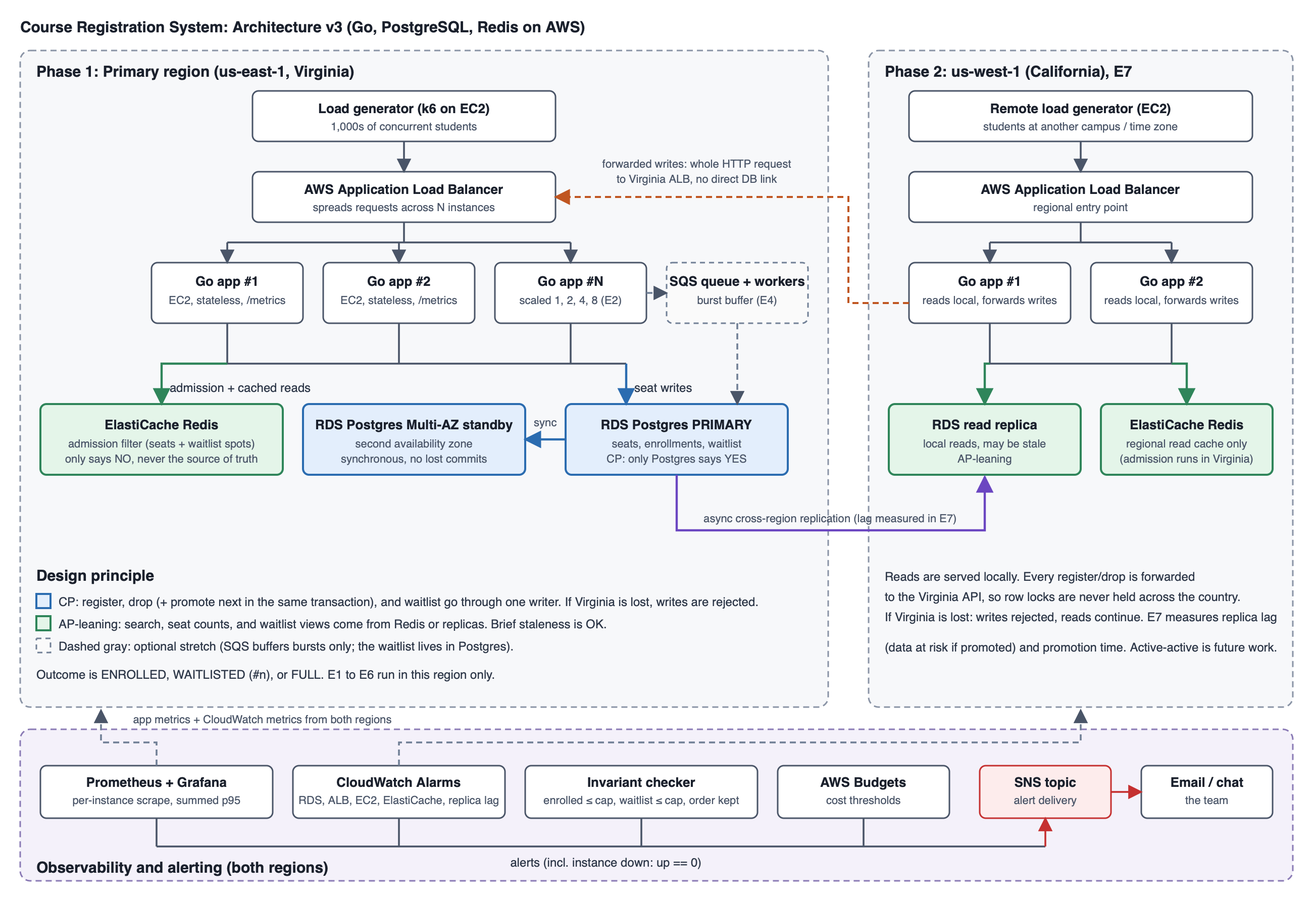
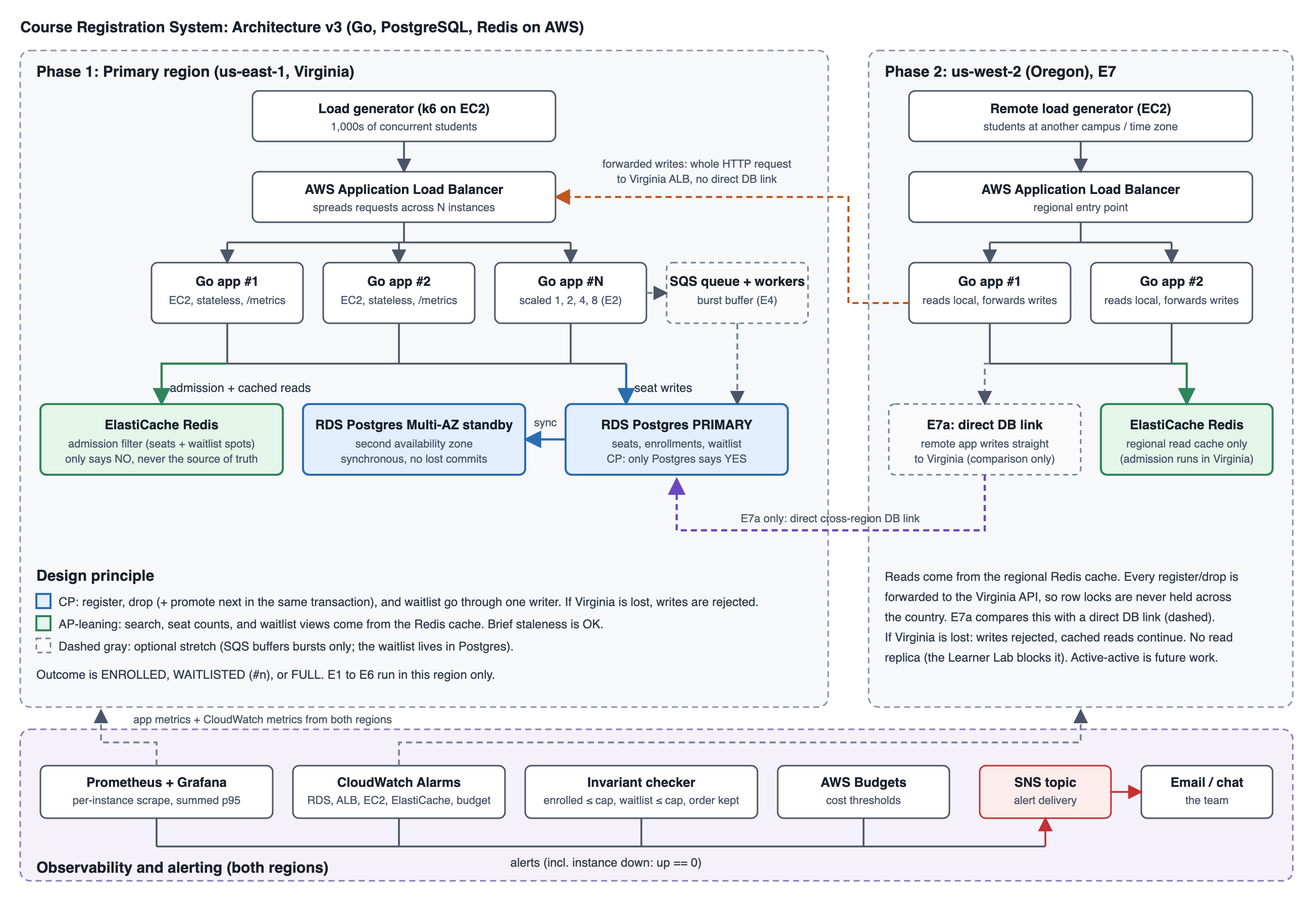
Update docs for AWS Learner Lab limits

diff --git a/docs/proposal.md b/docs/proposal.md
@@ -15,14 +15,14 @@ date: "November 2026"
 | Member | What they bring |
 |---|---|
 | Suyash Muley | **[FILL IN: e.g., Go backend/API development, Postgres schema, prior HW work on the Go DynamoDB store]** |
-| Santosh Sunkara | **[FILL IN: e.g., AWS deployment/infrastructure, load testing]** |
+| Santosh Sunkara | Infrastructure as code with Terraform and Ansible from prior industry work; containers with Docker and Kubernetes; hands-on with core AWS services. Leads AWS deployment and load testing. |
 | Sameep Sawant | **[FILL IN: e.g., observability, data analysis, Redis/caching]** |
 
-**Results our experiments will evaluate.** (1) *Correctness*: zero over-enrollment and zero lost or duplicated enrollments under contention. (2) *Performance*: throughput (registrations/s), median and p95/p99 latency, error rate. (3) *Scalability*: how throughput changes as we add application instances, and where the database becomes the bottleneck. (4) *Resilience*: behavior during traffic spikes and when an application server or Redis is killed. (5) *Multi-region behavior*: many universities have campuses in different locations and time zones, so we evaluate latency, consistency, and what a primary-region failure would cost (replica lag and promotion time) when users connect from a remote region. (6) *Waitlist correctness*: waitlist order is preserved and a freed seat always goes to the first waitlisted student, even during a burst of drops.
+**Results our experiments will evaluate.** (1) *Correctness*: zero over-enrollment and zero lost or duplicated enrollments under contention. (2) *Performance*: throughput (registrations/s), median and p95/p99 latency, error rate. (3) *Scalability*: how throughput changes as we add application instances, and where the database becomes the bottleneck. (4) *Resilience*: behavior during traffic spikes and when an application server or Redis is killed. (5) *Multi-region behavior*: many universities have campuses in different locations and time zones, so we evaluate the latency and consistency cost (cross-region write latency, row-lock hold time, stale cached reads) when users connect from a remote region, and what happens to them when the primary region fails. (6) *Waitlist correctness*: waitlist order is preserved and a freed seat always goes to the first waitlisted student, even during a burst of drops.
 
 **Role of AI.** AI is a development assistant (code generation, test scaffolding, log/metric analysis, and documentation drafts). The *system itself* has no AI component in its request path. This keeps behavior deterministic and cost predictable. See Sections 2 and 3.
 
-**Observability plan.** Every Go instance exports metrics (request count, latency histograms, error counts, seat-conflict/retry counts, DB connection-pool usage) to Prometheus (which scrapes each instance directly through EC2 service discovery, not through the load balancer) and displays them in Grafana. AWS CloudWatch supplies infrastructure metrics for RDS (CPU, connections, IOPS), ElastiCache, the load balancer, and EC2. Logs are structured JSON with a request ID that follows each request through the load balancer, app, and database. Alerting is built in: CloudWatch Alarms and Grafana alerts on latency, error rate, replica lag, and an over-enrollment invariant check, delivered through Amazon SNS. Load-test results are stored as CSV so every graph in the final report can be regenerated.
+**Observability plan.** Every Go instance exports metrics (request count, latency histograms, error counts, seat-conflict/retry counts, DB connection-pool usage) to Prometheus (which scrapes each instance directly through EC2 service discovery, not through the load balancer) and displays them in Grafana. AWS CloudWatch supplies infrastructure metrics for RDS (CPU, connections, IOPS), ElastiCache, the load balancer, and EC2. Logs are structured JSON with a request ID that follows each request through the load balancer, app, and database. Alerting is built in: CloudWatch Alarms and Grafana alerts on latency, error rate, and an over-enrollment invariant check, delivered through Amazon SNS. Load-test results are stored as CSV so every graph in the final report can be regenerated.
 
 # 2. Project Plan and Recent Progress
 
@@ -33,8 +33,9 @@ date: "November 2026"
 - **Data model:** a PostgreSQL schema for sections, students, enrollments, and a capped waitlist.
 - **Service:** a Go HTTP service with register, drop, and seat-count endpoints, a configurable seat strategy, and unit tests for the handlers.
 - **Strategies and first result:** the naive baseline and the atomic single-statement strategy, tested against a real PostgreSQL. With 200 concurrent registrations for 10 seats, naive enrolled 200 and atomic enrolled exactly 10 (Section 6).
+- **AWS Learner Lab check:** verified the AWS Learner Lab limits by test-launching RDS: PostgreSQL with Multi-AZ works, but read replicas are blocked and only us-east-1 and us-west-2 are available.
 
-**[Santosh and Sameep: add anything you have completed, e.g., Docker Compose, the k6 load script, dashboards, or AWS setup.]** Our earlier coursework (the key-value/DynamoDB store from the homework) gives us a base for storing and updating seat counts.
+**[Sameep: add anything you have completed, e.g., dashboards.]** Our earlier coursework (the key-value/DynamoDB store from the homework) gives us a base for storing and updating seat counts.
 
 **Timeline and task breakdown** (about 3 weeks of remaining work; adjust to the real deadline):
 
@@ -42,7 +43,7 @@ date: "November 2026"
 |---|---|---|
 | Nov 23–29 | Single-instance Go service (register, drop, waitlist, seat-count APIs); Postgres schema; local Docker Compose; metrics endpoint; AWS account/budget alarm | Suyash (API/DB), Sameep (metrics), Santosh (AWS setup) |
 | Nov 30–Dec 6 | Deploy to AWS (EC2 instances behind an ALB, RDS Postgres, ElastiCache Redis); concurrency-control variants; Prometheus + Grafana; load-test harness | Santosh (AWS/LB/harness), Suyash (concurrency), Sameep (dashboards) |
-| Dec 7–13 | Run E1–E6 (Phase 1, single region); Redis variants; failure injection; analysis. **Phase 2, only if E1–E6 are done:** second region in us-west-1 (read replica + remote clients, E7) | All; Santosh runs tests and the second region, Sameep analyzes |
+| Dec 7–13 | Run E1–E6 (Phase 1, single region); Redis variants; failure injection; analysis. **Phase 2, only if E1–E6 are done:** second region in us-west-2 (app instances, regional Redis cache, and remote clients, E7) | All; Santosh runs tests and the second region, Sameep analyzes |
 | Dec 14–end | Final report, graphs, demo, cleanup, README for classmates | All |
 
 **Who does what.** Suyash owns the application service and correctness (concurrency control, tests). Santosh owns infrastructure and load generation (load balancer, deployment, workload scripts, failure injection). Sameep owns observability and analysis (metrics, dashboards, plots, cache layer). Each person reviews at least one other person's pull request every week.
@@ -63,13 +64,13 @@ date: "November 2026"
 4. Compare at least two seat-allocation strategies and a caching/queueing option with Redis.
 5. Provide dashboards and structured logs that make failures diagnosable.
 6. Support a capped waitlist (enrolled, waitlisted at position n, or full), with the first waitlisted student promoted in the same transaction as a drop.
-7. **Phase 2:** once the single-region system and E1–E6 are done, evaluate a second region (us-west-1, a West Coast campus) to measure the latency and consistency cost of serving campuses in different time zones.
+7. **Phase 2:** once the single-region system and E1–E6 are done, evaluate a second region (us-west-2, a West Coast campus) to measure the latency and consistency cost of serving campuses in different time zones.
 
-**Design principle: CP for writes, AP-leaning for reads.** We choose consistency per operation, not one setting for the whole system. *Registering or dropping a seat is CP*: a single writer (PostgreSQL, Multi-AZ with synchronous replication) guarantees zero over-enrollment, and during a partition or a primary-region outage the system rejects writes instead of risking an oversold section. We stay highly available against likely failures (an app instance, a Redis node, or an availability zone) because the synchronous standby takes over without losing committed writes. The cross-region replica is asynchronous, so promoting it after a region loss could drop the most recent enrollments or double-assign a seat. We therefore do not auto-promote it, and E7 measures what that failover would cost (replica lag at risk and promotion time). Redis may only say *no* (reject early once a section and its waitlist are full); only Postgres can say *yes*. *Course search, seat-count display, and waitlist views are AP-leaning*: they are served from Redis and read replicas, so they stay fast and available during failures at the cost of brief staleness. We do not claim to have both properties during a partition: for seat writes we explicitly choose consistency.
+**Design principle: CP for writes, AP-leaning for reads.** We choose consistency per operation, not one setting for the whole system. *Registering or dropping a seat is CP*: a single writer (PostgreSQL, Multi-AZ with synchronous replication) guarantees zero over-enrollment, and during a partition or a primary-region outage the system rejects writes instead of risking an oversold section. We stay highly available against likely failures (an app instance, a Redis node, or an availability zone) because the synchronous standby takes over without losing committed writes. The second region holds no copy of the database. A cross-region replica would be asynchronous, so promoting it after a region loss could drop the most recent enrollments or double-assign a seat, and the AWS Learner Lab does not allow RDS read replicas in any case. If the primary region is lost, writes are rejected until it returns. Redis may only say *no* (reject early once a section and its waitlist are full); only Postgres can say *yes*. *Course search, seat-count display, and waitlist views are AP-leaning*: they are served from the Redis cache, so they stay fast and available during failures at the cost of brief staleness. We do not claim to have both properties during a partition: for seat writes we explicitly choose consistency.
 
-**Long-term vision.** A reference architecture and benchmark kit that a university could use to size and stress-test its registration system *before* registration day. Concrete future work: (a) partition/shard seat counts by course to remove the single-row hot spot; (b) priority registration windows (seniors first) and student notifications (seat granted, waitlist movement) sent through Amazon SNS, building on the core waitlist; (c) a full active-active multi-region deployment with regional write capability and explicit consistency tradeoffs (beyond the primary-plus-replica setup we test), plus per-campus registration windows in local time zones; (d) autoscaling driven by the same metrics we collect; (e) SLO tracking and burn-rate alerting built on the alerts we define now (for example, "p95 < 500 ms, zero over-enrollment"); (f) replaying anonymized real registration traces.
+**Long-term vision.** A reference architecture and benchmark kit that a university could use to size and stress-test its registration system *before* registration day. Concrete future work: (a) partition/shard seat counts by course to remove the single-row hot spot; (b) priority registration windows (seniors first) and student notifications (seat granted, waitlist movement) sent through Amazon SNS, building on the core waitlist; (c) cross-region read replicas with measured replica lag and failover cost, and then a full active-active multi-region deployment with regional write capability and explicit consistency tradeoffs, plus per-campus registration windows in local time zones; (d) autoscaling driven by the same metrics we collect; (e) SLO tracking and burn-rate alerting built on the alerts we define now (for example, "p95 < 500 ms, zero over-enrollment"); (f) replaying anonymized real registration traces.
 
-**Observability, reliability, and cost control for deployers.** Observability is a core objective: dashboards for the four golden signals (latency, traffic, errors, saturation), an invariant checker that continuously verifies `enrolled <= capacity` for every section, and runbook-style notes on what each alert means. The system has no AI in production, so there is no model-cost or nondeterminism risk for deployers. Where AI helped build it, correctness is guaranteed by the test suite and invariant checker, not by trust in the tool. Infrastructure cost is controlled by documenting the capacity measured per instance, so operators can choose the smallest fleet that meets the target. For our own AWS usage we set an AWS Budgets alarm, use small instance types, run experiments in short windows, and tear down the environment (via infrastructure-as-code) when not testing.
+**Observability, reliability, and cost control for deployers.** Observability is a core objective: dashboards for the four golden signals (latency, traffic, errors, saturation), an invariant checker that continuously verifies `enrolled <= capacity` for every section, and runbook-style notes on what each alert means. The system has no AI in production, so there is no model-cost or nondeterminism risk for deployers. Where AI helped build it, correctness is guaranteed by the test suite and invariant checker, not by trust in the tool. Infrastructure cost is controlled by documenting the capacity measured per instance, so operators can choose the smallest fleet that meets the target. For our own AWS usage we set an AWS Budgets alarm, use small instance types, run experiments in short windows, and tear down the environment (via infrastructure-as-code) when not testing. We delete the RDS database rather than only stopping it, because the lab session does not stop it and AWS restarts a stopped instance automatically after seven days.
 
 # 4. Related Work
 
@@ -88,19 +89,19 @@ Our contribution is a small, reproducible, end-to-end experiment on one concrete
 
 **Tech stack.** Go (application service), PostgreSQL (source of truth), Redis (admission/caching), Docker, and AWS as the cloud provider.
 
-**Phasing.** *Phase 1* is a complete single-region system (us-east-1) and experiments E1–E6. *Phase 2* adds a second region (us-west-1) and E7, and is built only after Phase 1 is done.
+**Phasing.** *Phase 1* is a complete single-region system (us-east-1) and experiments E1–E6. *Phase 2* adds a second region (us-west-2) and E7, and is built only after Phase 1 is done.
 
-**Architecture.** Clients (load generator running on a separate EC2 instance in the same region) → AWS Application Load Balancer → N stateless Go application instances on EC2 (containerized) → shared **Amazon RDS for PostgreSQL** as the source of truth, with **Amazon ElastiCache for Redis** for caching and admission control. Prometheus and Grafana run on a separate EC2 instance (one Prometheus per region), scraping each app instance directly, and CloudWatch collects managed-service metrics. **Multi-region extension (Phase 2).** Real universities have campuses in several locations and time zones. We deploy a second region (us-west-1, a West Coast campus) containing a cross-region RDS Postgres read replica (asynchronous), its own application instances behind an ALB, and a regional Redis. Seat-changing requests are **forwarded as whole HTTP requests to the primary region's ALB**; the remote app never opens a database connection to the primary. This way the cross-country round trip happens *before* a row lock is taken, not while one is held, and the seat invariant still has one writer. Registration is a single SQL statement (conditional update plus insert), so the lock lasts about 1 ms in any region. Reads (course search, seat counts, waitlist views) are served locally, with possibly stale data. Remote-region clients are generated from EC2 instances in the second region. Main experiments E1–E6 run in a single region so that cross-region latency does not distort them. The same containers run locally with Docker Compose for development, and the AWS environment is defined as infrastructure-as-code (e.g., Terraform or CloudFormation) so it can be created, scaled to N instances, and torn down reproducibly. Instance types, RDS size, and region are fixed and recorded for every experiment.
+**Architecture.** Clients (load generator running on a separate EC2 instance in the same region) → AWS Application Load Balancer → N stateless Go application instances on EC2 (containerized) → shared **Amazon RDS for PostgreSQL** as the source of truth, with **Amazon ElastiCache for Redis** for caching and admission control. Prometheus and Grafana run on a separate EC2 instance (one Prometheus per region), scraping each app instance directly, and CloudWatch collects managed-service metrics. **Multi-region extension (Phase 2).** Real universities have campuses in several locations and time zones. We deploy a second region (us-west-2, a West Coast campus) containing its own application instances behind an ALB and a regional Redis read cache, but no database, because the AWS Learner Lab does not allow RDS read replicas. Seat-changing requests are **forwarded as whole HTTP requests to the primary region's ALB**; the remote app never opens a database connection to the primary. This way the cross-country round trip happens *before* a row lock is taken, not while one is held, and the seat invariant still has one writer. Registration is a single SQL statement (conditional update plus insert), so the lock lasts about 1 ms in any region. Reads (course search, seat counts, waitlist views) are served from the regional cache, with possibly stale data; cache misses go to the primary region. Remote-region clients are generated from EC2 instances in the second region. Main experiments E1–E6 run in a single region so that cross-region latency does not distort them. The same containers run locally with Docker Compose for development, and the AWS environment is defined as infrastructure-as-code (e.g., Terraform or CloudFormation) so it can be created, scaled to N instances, and torn down reproducibly. Instance types, RDS size, and region are fixed and recorded for every experiment.
 
-![System architecture: primary region (ALB, Go app instances, Redis, Postgres primary with Multi-AZ standby), second region (replica and remote clients), and the observability and alerting stack.](architecture.png)
+![System architecture: primary region (ALB, Go app instances, Redis, Postgres primary with Multi-AZ standby), second region (app instances, regional cache, and remote clients), and the observability and alerting stack.](architecture.png)
 
 **Consistency model per operation.**
 
 | Operation | Choice | Mechanism |
 |---|---|---|
 | Register / drop a seat, join or leave the waitlist | CP | Single-writer Postgres (RDS Multi-AZ, synchronous standby). Outcome is one of ENROLLED, WAITLISTED (#n), or FULL. Redis can only say *no* early and never says *yes*. |
-| Seat-count and course-search reads | AP-leaning | Redis cache and read replicas; bounded staleness measured in E6/E7 |
-| Waitlist view (position) | AP-leaning | Replica or cache read; ordering is decided by the primary |
+| Seat-count and course-search reads | AP-leaning | Redis cache (falls back to the primary); bounded staleness measured in E6/E7 |
+| Waitlist view (position) | AP-leaning | Cache read; ordering is decided by the primary |
 
 **Data model.** `sections(id, capacity, waitlist_cap, enrolled)`, `students(id)`, `enrollments(student_id, section_id)` with a unique constraint on the pair, and `waitlist(section_id, student_id, position/joined_at)` with a unique constraint on `(section_id, student_id)`. A student is never both enrolled and waitlisted in the same section. When a student drops, the first waitlisted student is promoted **in the same transaction**, so a new registration can never take the freed seat ahead of the person who was waiting. The waitlist lives in Postgres, not SQS, because it needs positions, leaving the list, and promotion inside the drop transaction, none of which a standard queue provides.
 
@@ -127,7 +128,6 @@ Our contribution is a small, reproducible, end-to-end experiment on one concrete
 | App instance down (`up == 0`) | Prometheus / Grafana | High |
 | p95 latency above target for 5 minutes | Grafana / ALB metrics | High |
 | 5xx or registration error rate above 1% | ALB / Grafana | High |
-| RDS replica lag above threshold (E7) | CloudWatch | Medium |
 | RDS CPU or connections near limit | CloudWatch | Medium |
 | Redis memory or evictions high | CloudWatch | Medium |
 | AWS spend passes budget thresholds | AWS Budgets | Medium |
@@ -144,9 +144,9 @@ We also use these alerts during experiments to check that they fire when we inje
 | E4 | Traffic spike | Step load from baseline to 10×; stretch variant: direct writes vs. an Amazon SQS queue in front of the database workers | Latency recovery, errors, queueing, time-to-result | Availability vs. latency under overload; instant answer vs. protecting the database |
 | E5 | Failure injection | Kill an app instance; kill Redis; force an RDS Multi-AZ failover | Error spike, recovery time, invariant held? | Fault tolerance vs. consistency (CAP) |
 | E6 | Caching of reads | Seat-count/course-search reads with and without cache | Read latency, staleness | Freshness vs. speed |
-| E7 (Phase 2) | Multi-region | Remote clients in us-west-1: (a) remote app connecting directly to the primary DB vs. (b) whole request forwarded to the primary ALB; local reads from the replica; primary-region outage (writes rejected, reads continue) | Cross-region latency, row-lock hold time and throughput on hot sections, replica lag during a spike (data at risk if promoted), replica promotion time, stale-read rate | Latency vs. consistency (PACELC); availability vs. single-writer safety |
+| E7 (Phase 2) | Multi-region | Remote clients in us-west-2: (a) remote app connecting directly to the primary DB vs. (b) whole request forwarded to the primary ALB; local reads from the regional Redis cache; primary-region outage (writes rejected, cached reads continue) | Cross-region latency, row-lock hold time and throughput on hot sections, stale-read rate | Latency vs. consistency (PACELC); availability vs. single-writer safety |
 
-Each run is repeated at least 3 times and reported as median with variance. Instance types, versions, and configuration are recorded so results are reproducible. Because cloud performance can vary between runs (noisy neighbors, burstable CPU credits), we use non-burstable instance types where affordable and repeat runs at different times.
+Each run is repeated at least 3 times and reported as median with variance. Instance types, versions, and configuration are recorded so results are reproducible. Because cloud performance can vary between runs (noisy neighbors, burstable CPU credits), we repeat runs at different times. The AWS Learner Lab limits RDS to burstable instance classes (up to medium), so we record the database's CPU credit balance during each run and discard any run in which the credits ran out.
 
 # 6. Preliminary Results
 
@@ -160,13 +160,13 @@ Each run is repeated at least 3 times and reported as median with variance. Inst
 | E4 Spike | Not yet run | None yet | Step-load script, dashboards, and the optional SQS variant |
 | E5 Failure injection | Not yet run | None yet | Failure-injection scripts (app instance, Redis, RDS Multi-AZ failover) and recovery measurement; needs the AWS deployment |
 | E6 Read caching | Not yet run | None yet | Redis read cache and staleness checks |
-| E7 Multi-region (Phase 2) | Not yet run | None yet. Planned only after E1–E6 are done. | Second-region deployment (only after E1–E6), direct vs. forwarded writes, replica-lag and promotion-time measurements |
+| E7 Multi-region (Phase 2) | Not yet run | None yet. Planned only after E1–E6 are done. | Second-region deployment (only after E1–E6), direct vs. forwarded writes, stale-read rate from the regional cache |
 
 **Hypotheses to confirm or refute** (clearly labeled as expectations, not results): the naive strategy will over-enroll; throughput will rise with instance count and then flatten once the database (row locks or connection pool) saturates; Redis admission will raise throughput but adds a consistency window to handle.
 
 **Base-case workload.** A realistic mix: many students browsing and searching courses (read-heavy, about 90% reads), spread across many sections, with registrations arriving at a moderate rate. This is the "normal day" and should reveal little contention.
 
-**Pathological worst case.** Registration-opening moment: thousands of students simultaneously attempt to register for the **same few popular sections with very few seats** (for example, 5,000 requests for 3 sections with 30 seats), plus retries and refresh-spamming. This is the worst case because every request contends for the *same row*, serializing writes, so extra servers add load without adding throughput, lock waits and connection pools saturate, retries amplify the load, and the risk of over-enrollment is highest. A second pathological case is a failure *during* the spike (an instance dies mid-burst). A third, for the multi-region setup, is a spike in which most clients are in the remote region. If the remote app talks directly to the primary database, a `SELECT ... FOR UPDATE` registration takes several round trips (roughly 65 ms each between Virginia and California) while holding the row lock, so the lock is held for about 200 ms instead of about 3 ms and every student registering for that section waits, including local ones. Forwarding the whole request to the primary region and using a single-statement registration keeps the lock near 1 ms; E7 measures the difference. A fourth is a "drop storm": many drops while registrations continue, which stresses waitlist promotion order.
+**Pathological worst case.** Registration-opening moment: thousands of students simultaneously attempt to register for the **same few popular sections with very few seats** (for example, 5,000 requests for 3 sections with 30 seats), plus retries and refresh-spamming. This is the worst case because every request contends for the *same row*, serializing writes, so extra servers add load without adding throughput, lock waits and connection pools saturate, retries amplify the load, and the risk of over-enrollment is highest. A second pathological case is a failure *during* the spike (an instance dies mid-burst). A third, for the multi-region setup, is a spike in which most clients are in the remote region. If the remote app talks directly to the primary database, a `SELECT ... FOR UPDATE` registration takes several round trips (roughly 70 ms each between Virginia and Oregon) while holding the row lock, so the lock is held for about 200 ms instead of about 3 ms and every student registering for that section waits, including local ones. Forwarding the whole request to the primary region and using a single-statement registration keeps the lock near 1 ms; E7 measures the difference. A fourth is a "drop storm": many drops while registrations continue, which stresses waitlist promotion order.
 
 # 7. Impact
 

diff --git a/docs/architecture.md b/docs/architecture.md
@@ -11,15 +11,15 @@ Editable source: `architecture.svg`.
 | Operation | Choice | Mechanism |
 |---|---|---|
 | Register / drop a seat, join or leave the waitlist | **CP** | One writer (RDS Postgres primary) with a synchronous Multi-AZ standby. Outcome is ENROLLED, WAITLISTED (#n), or FULL. During a partition or primary-region outage, writes are rejected. |
-| Seat-count and course-search reads | **AP-leaning** | Redis cache and read replicas. Brief staleness is accepted and measured (E6, E7). |
-| Waitlist view | **AP-leaning** | Replica or cache read. The primary decides ordering. |
+| Seat-count and course-search reads | **AP-leaning** | Redis cache, falling back to the primary. Brief staleness is accepted and measured (E6, E7). |
+| Waitlist view | **AP-leaning** | Cache read. The primary decides ordering. |
 
 Redis may only say **no**; only Postgres can say **yes**. Redis rejects requests early once seats and waitlist spots are full, which protects the database during a spike. A wrong "no" costs a student a retry; a wrong "yes" would break zero over-enrollment, so every request Redis lets through is still decided by Postgres. A background job resyncs the Redis counter from Postgres every few seconds, drops increment it immediately, and an empty Redis (after a restart) lets requests through to Postgres.
 
 ## Phasing
 
 - **Phase 1:** a complete single-region system (us-east-1, Virginia) and experiments E1–E6.
-- **Phase 2:** second region (us-west-1, California) and E7, built only after Phase 1 is done.
+- **Phase 2:** second region (us-west-2, Oregon) and E7, built only after Phase 1 is done.
 
 ## Components
 
@@ -35,14 +35,13 @@ Redis may only say **no**; only Postgres can say **yes**. Redis rejects requests
 | RDS Multi-AZ standby | Synchronous replica in a second availability zone. Takes over on failure without losing committed writes (tested in E5). |
 | SQS queue + workers *(stretch)* | Optional burst buffer for E4 only. It is not the waitlist (the waitlist lives in Postgres). Workers must be idempotent because standard SQS is at-least-once. |
 
-### Phase 2: Second region (us-west-1, California), E7 only
+### Phase 2: Second region (us-west-2, Oregon), E7 only
 
 | Component | Purpose |
 |---|---|
 | Remote load generator | Simulates students at another campus or time zone. |
-| ALB + Go app instances | Regional entry point. Reads are served locally. Every register/drop is forwarded as a whole HTTP request to the Virginia ALB. The remote app never connects to the primary database, so row locks are never held across the country. |
-| RDS read replica (async) | Local reads that may be stale. Replica lag is measured. RDS cross-region replicas are asynchronous, so we do not auto-promote; E7 measures what failover would cost (data at risk and promotion time). |
-| Regional Redis | Regional read cache. |
+| ALB + Go app instances | Regional entry point. Reads are served locally. Every register/drop is forwarded as a whole HTTP request to the Virginia ALB. In this design the remote app never connects to the primary database, so row locks are never held across the country. E7 compares it with a variant in which the remote app connects to the primary database directly. |
+| Regional Redis | Regional read cache; misses go to Virginia. There is no regional database: the AWS Learner Lab does not allow RDS read replicas (tested Nov 22, 2026). |
 
 ### Observability and alerting (both regions)
 
@@ -57,8 +56,8 @@ Redis may only say **no**; only Postgres can say **yes**. Redis rejects requests
 ## Request flows
 
 1. **Register (primary region):** client → ALB → Go app → Redis admission check (may say no) → one Postgres statement: claim a seat, or join the waitlist, or report full → response (ENROLLED, WAITLISTED #n, or FULL).
-2. **Read seat counts:** client → ALB → Go app → Redis cache → fall back to Postgres or a replica on a miss.
-3. **Register (second region):** client → regional ALB → Go app → whole HTTP request forwarded to the Virginia ALB → handled in Virginia → response. Reads stay local.
+2. **Read seat counts:** client → ALB → Go app → Redis cache → fall back to Postgres on a miss.
+3. **Register (second region):** client → regional ALB → Go app → whole HTTP request forwarded to the Virginia ALB → handled in Virginia → response. Reads come from the regional cache.
 3b. **Drop:** Go app → one transaction: remove the enrollment and promote the first waitlisted student.
 4. **Queued register (stretch):** client → Go app → SQS → worker → Postgres. The client polls for the result. Used only to buffer bursts.
 
@@ -70,7 +69,6 @@ Redis may only say **no**; only Postgres can say **yes**. Redis rejects requests
 | App instance down (`up == 0`) | Prometheus / Grafana | High |
 | p95 latency above target for 5 minutes | Grafana / ALB | High |
 | 5xx or registration error rate above 1% | ALB / Grafana | High |
-| RDS replica lag above threshold | CloudWatch | Medium |
 | RDS CPU or connections near limit | CloudWatch | Medium |
 | Redis memory or evictions high | CloudWatch | Medium |
 | AWS spend passes budget thresholds | AWS Budgets | Medium |
@@ -85,10 +83,10 @@ Redis may only say **no**; only Postgres can say **yes**. Redis rejects requests
 | E4 | Traffic spike | Load generator, Redis, optional SQS |
 | E5 | Failure injection | Kill an app instance, kill Redis, force RDS Multi-AZ failover |
 | E6 | Read caching | Redis cache vs. direct reads (staleness) |
-| E7 (Phase 2) | Multi-region | Second region; direct DB writes vs. forwarded writes; replica lag during a spike; promotion time; primary-region outage |
+| E7 (Phase 2) | Multi-region | Second region (app instances and cache, no database); direct DB writes vs. forwarded writes; stale reads from the regional cache; primary-region outage |
 
 ## Open decisions for the team
 
-- Instance sizes (regions are us-east-1 and us-west-1; confirm both are available in the AWS Learner Lab)
+- Instance sizes (regions are fixed: us-east-1 and us-west-2, the only two the AWS Learner Lab allows). Learner Lab RDS limits: burstable classes only, nano to medium (e.g., `db.t3.medium`); gp2 storage up to 100 GB; on-demand only; Enhanced Monitoring must be turned off. Tested Nov 22, 2026: Multi-AZ works; read replicas are blocked.
 - Terraform or CloudFormation for infrastructure-as-code
 - Whether the SQS variant and E7 stay in scope, or become future work if time runs short

diff --git a/docs/plan.md b/docs/plan.md
@@ -8,7 +8,7 @@ Check the due date in Canvas. One PDF per group is uploaded to Homework 9.
 
 | # | Task | Who | Files / output |
 |---|---|---|---|
-| 1 | Team meeting: review `design_concerns_for_feedback.pdf` and confirm stack, roles, regions (us-east-1 + us-west-1), and scope. The waitlist is decided: it stays in the core. Check what the AWS Learner Lab allows (regions, RDS Multi-AZ, ElastiCache, cross-region replicas). | All | Decisions in chat |
+| 1 | Team meeting: review `design_concerns_for_feedback.pdf` and confirm stack, roles, regions (us-east-1 + us-west-2), and scope. The waitlist is decided: it stays in the core. Check what the AWS Learner Lab allows (regions, RDS Multi-AZ, ElastiCache, cross-region replicas). | All | Decisions in chat |
 | 2 | Fill the `[FILL IN]` items: bios, recent progress, chat platform, meeting time, course readings | Each person fills their own bio. Sameep: Section 4. Santosh: Sections 8–9. | `docs/proposal.md` |
 | 3 | Fix the proposal for the Learner Lab limits (regions, services) | Santosh | `docs/proposal.md`, `docs/architecture.md`, `docs/architecture.svg` |
 | 4 | Build the E1 baseline code (table below). Suyash's part (orders 1–3) is done. | Suyash, Santosh, Sameep | see below |
@@ -57,7 +57,7 @@ Orders 1–3 and 4 can run in parallel. Order 5 needs the handlers from order 3,
 | File | Owner |
 |---|---|
 | `loadtest/e4-spike/`, `e5-failure/`, `e6-caching/` | Sameep |
-| Phase 2 only, after E1–E6 are done: `infra/terraform/` second region (us-west-1); `loadtest/e7-multiregion/` (direct vs. forwarded writes, replica lag, promotion time) | Santosh |
+| Phase 2 only, after E1–E6 are done: `infra/terraform/` second region (us-west-2); `loadtest/e7-multiregion/` (direct vs. forwarded writes, cross-region latency, stale reads; no read replica, the Learner Lab blocks it) | Santosh |
 | `analysis/` plots for all experiments | Sameep |
 | Optional SQS variant (E4 stretch) | Whoever finishes first |
 

diff --git a/infra/terraform/README.md b/infra/terraform/README.md
@@ -4,4 +4,4 @@ Owner: Santosh.
 
 Infrastructure-as-code for AWS: VPC, ALB, EC2 app instances, RDS Postgres (Multi-AZ), ElastiCache Redis, the second region for E7, and the SNS topic and CloudWatch alarms.
 
-Note: confirm what the AWS Learner Lab allows (regions, RDS Multi-AZ, ElastiCache, cross-region replicas) before building. Never commit `*.tfstate` or `*.tfvars` (see .gitignore).
+AWS Learner Lab limits (checked Nov 22, 2026): only us-east-1 and us-west-2. RDS: burstable classes nano to medium, gp2 up to 100 GB, on-demand only, Enhanced Monitoring off (also turn off Performance Insights, which the console enables by default). Multi-AZ works. Read replicas are blocked (`rds:CreateDBInstanceReadReplica` is denied), so the second region has no database. ElastiCache: listed in the Lab readme with no extra restrictions; confirm a small node (e.g., `cache.t3.micro`, node-based, not Serverless) works during the trial launch. Never commit `*.tfstate` or `*.tfvars` (see .gitignore).

diff --git a/README.md b/README.md
@@ -2,7 +2,7 @@
 
 A scalable course registration system for BSDS: Go + PostgreSQL + Redis on AWS. We study how registration behaves when thousands of students enroll at once: correctness (no over-enrollment), scaling limits, failures, and multi-region behavior.
 
-Design: seat writes are CP (single consistent writer); reads are AP-leaning (cache and replicas). See [docs/architecture.md](docs/architecture.md) and [docs/proposal.md](docs/proposal.md).
+Design: seat writes are CP (single consistent writer); reads are AP-leaning (Redis cache). See [docs/architecture.md](docs/architecture.md) and [docs/proposal.md](docs/proposal.md).
 
 ## Layout and owners
 
